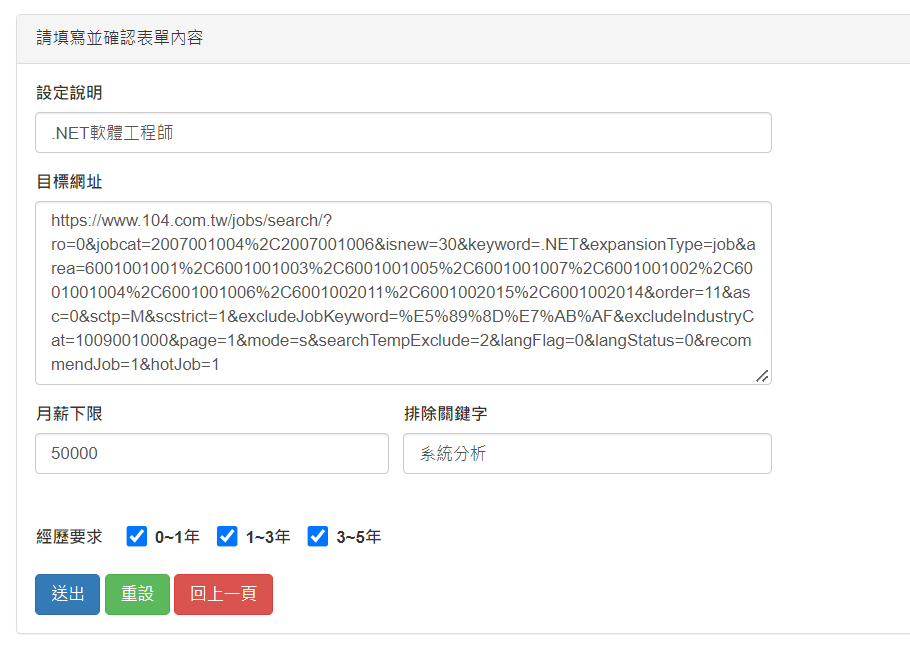
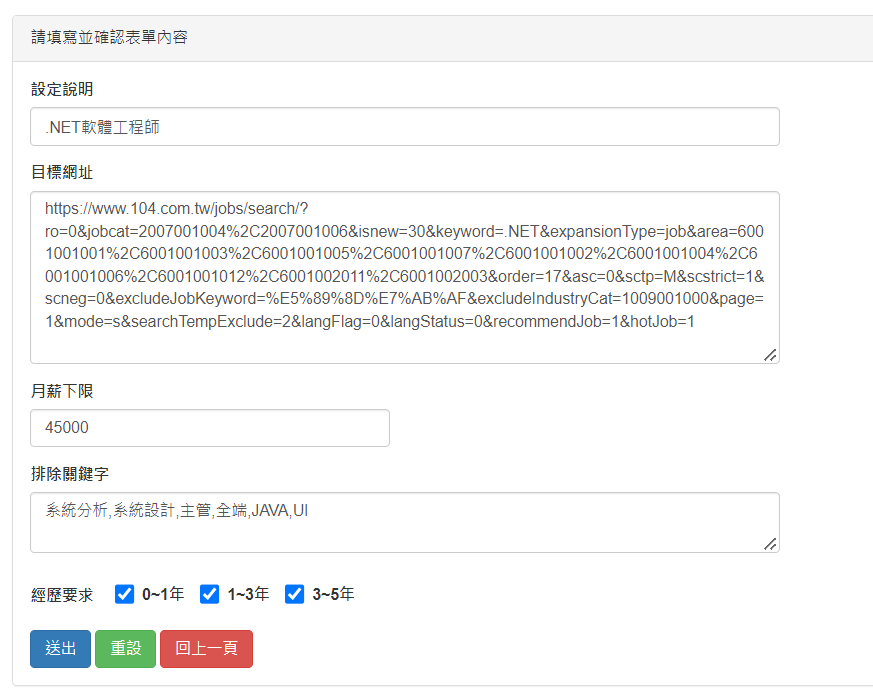
調整欄位長度 & UI畫面

diff --git a/JobFilter2/Models/Entities/JobFilterContext.cs b/JobFilter2/Models/Entities/JobFilterContext.cs
@@ -57,9 +57,9 @@ namespace JobFilter2.Models.Entities
             {
                 entity.ToTable("CrawlSetting");
 
-                entity.Property(e => e.ExcludeWords).HasMaxLength(50);
+                entity.Property(e => e.ExcludeWords).HasMaxLength(200);
 
-                entity.Property(e => e.Remark).HasMaxLength(20);
+                entity.Property(e => e.Remark).HasMaxLength(100);
 
                 entity.Property(e => e.Seniority)
                     .IsRequired()

diff --git a/readme.md b/readme.md
@@ -49,8 +49,8 @@ create table CrawlSetting
 &nbsp;&nbsp;&nbsp;&nbsp;TargetUrl nvarchar(2000) NOT NULL,  
 &nbsp;&nbsp;&nbsp;&nbsp;MinSalary int NOT NULL,  
 &nbsp;&nbsp;&nbsp;&nbsp;Seniority nvarchar(10) NOT NULL,  
-&nbsp;&nbsp;&nbsp;&nbsp;Remark nvarchar(20),  
-&nbsp;&nbsp;&nbsp;&nbsp;ExcludeWords nvarchar(50),  
+&nbsp;&nbsp;&nbsp;&nbsp;Remark nvarchar(100),  
+&nbsp;&nbsp;&nbsp;&nbsp;ExcludeWords nvarchar(200),  
 );  
 &emsp;  
 # 網站首頁(爬蟲列表)  
